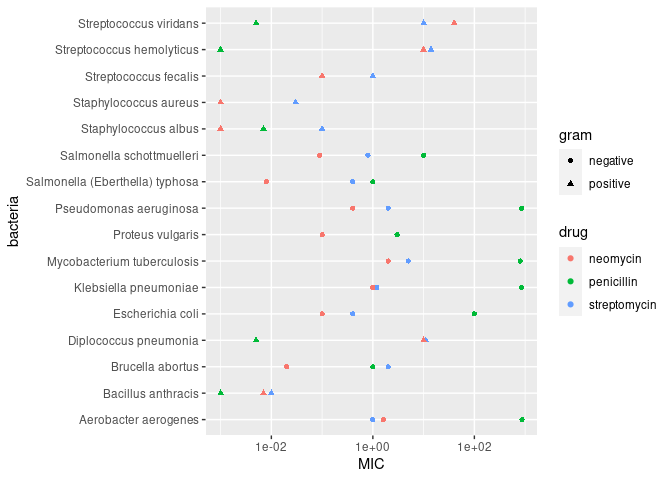
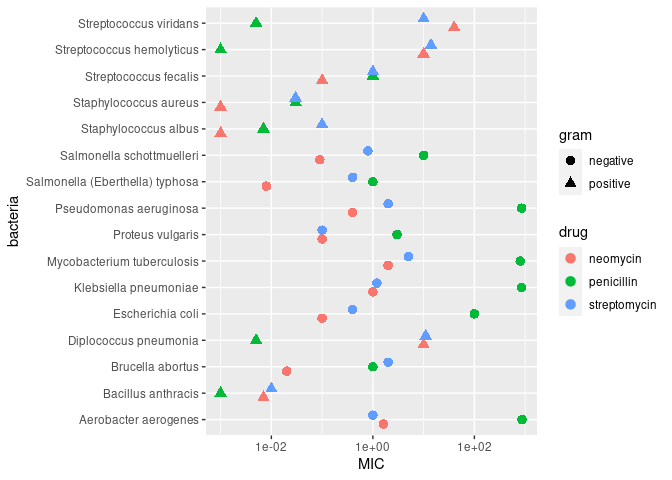
revise c05

diff --git a/challenges/c05-antibiotics-assignment.md b/challenges/c05-antibiotics-assignment.md
@@ -160,13 +160,26 @@ df_antibiotics_long <-
     names_to = "drug",
     values_to = "MIC"
   ) 
+glimpse(df_antibiotics_long)
+```
 
+    ## Rows: 48
+    ## Columns: 4
+    ## $ bacteria <chr> "Aerobacter aerogenes", "Aerobacter aerogenes", "Aerobacter a…
+    ## $ gram     <chr> "negative", "negative", "negative", "negative", "negative", "…
+    ## $ drug     <chr> "penicillin", "streptomycin", "neomycin", "penicillin", "stre…
+    ## $ MIC      <dbl> 870.000, 1.000, 1.600, 1.000, 2.000, 0.020, 0.001, 0.010, 0.0…
+
+``` r
 df_antibiotics_long %>%
-  ggplot(aes(MIC, bacteria)) +
+  ggplot(aes(bacteria, MIC)) +
   geom_point(
-    mapping = aes(shape = gram, color = drug)
+    mapping = aes(shape = gram, color = drug),
+    size = 3,
+    position = position_dodge(width = 0.5)
   ) +
-  scale_x_log10()
+  scale_y_log10() +
+  coord_flip()
 ```
 
 ![](c05-antibiotics-assignment_files/figure-gfm/q1.1-1.png)<!-- -->
@@ -225,11 +238,12 @@ Note that your visual must be *qualitatively different* from *all* of
 your other visuals.
 
 ``` r
-df_antibiotics_long %>%
-  ggplot(aes(MIC, drug)) +
-  geom_point(aes(color = drug)) +
-  scale_x_log10() +
-  facet_wrap(vars(bacteria))
+df_antibiotics %>% 
+  ggplot(aes(bacteria, neomycin)) +
+  geom_bar(aes(fill = gram), stat = "identity", width = .75) +
+  geom_hline(yintercept = 1) +
+  scale_y_log10() +
+  coord_flip()
 ```
 
 ![](c05-antibiotics-assignment_files/figure-gfm/q1.4-1.png)<!-- -->
@@ -301,15 +315,17 @@ and in 1984 *Streptococcus fecalis* was renamed *Enterococcus fecalis*
 > Why was *Diplococcus pneumoniae* was renamed *Streptococcus
 > pneumoniae*?
 
-*Observations* - What is your response to the question above? - The
-effectiveness of the 3 drugs against this bacteria looked similar to the
-effectiveness of the drugs against other streptococcus bacteria - Which
-of your visuals above (1 through 5) is **most effective** at helping to
-answer this question? - Plot 1 - Why? - I could easily identify the
-names of the bacteria and look for other ones named streptococcus, and I
-found it easy to see the points for the three different drugs with them
-being color coded - I think that plot 5 was also helpful but honestly is
-harder to follow
+*Observations* - What is your response to the question above? - The MIC
+values for the three drugs against this bacteria were similar to those
+of Streptococcus pneumoniae. MIC values are reflective of the biological
+structure of the bacteria, so similar MIC values could be related to
+similar biological structure, which would be a good reason to rename the
+bacterium. - Which of your visuals above (1 through 5) is **most
+effective** at helping to answer this question? - Plot 1 - Why? - I
+could easily identify the names of the bacteria and look for other ones
+named streptococcus, and I found it easy to see the points for the three
+different drugs with them being color coded - I think that plot 5 was
+also helpful but honestly is harder to follow
 
 # References
 
